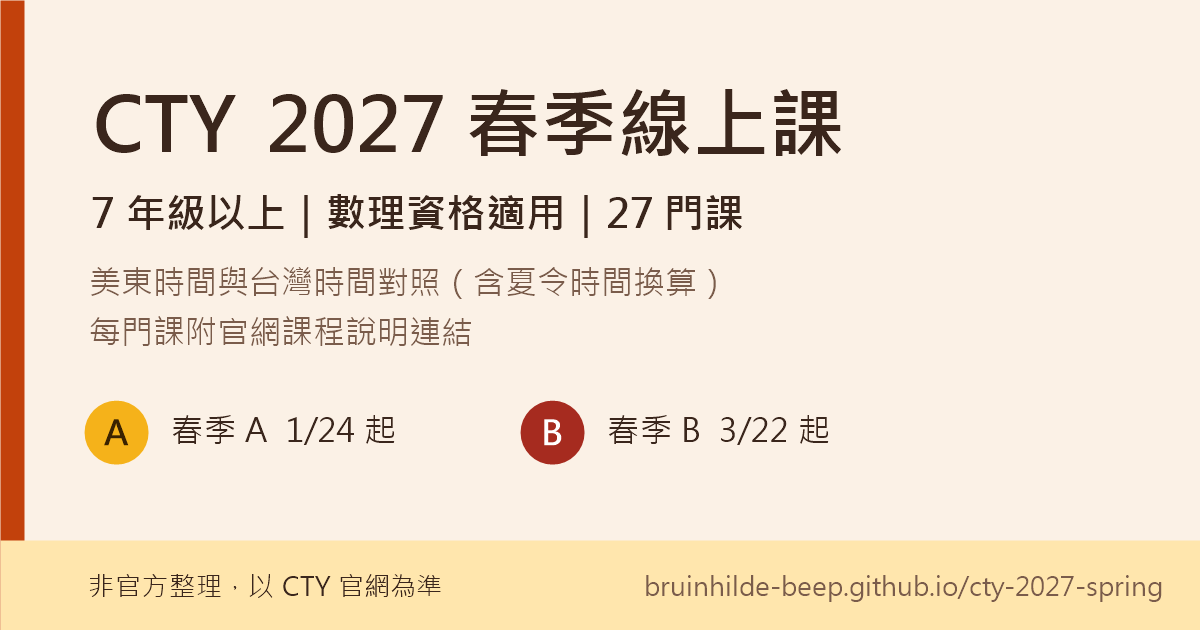
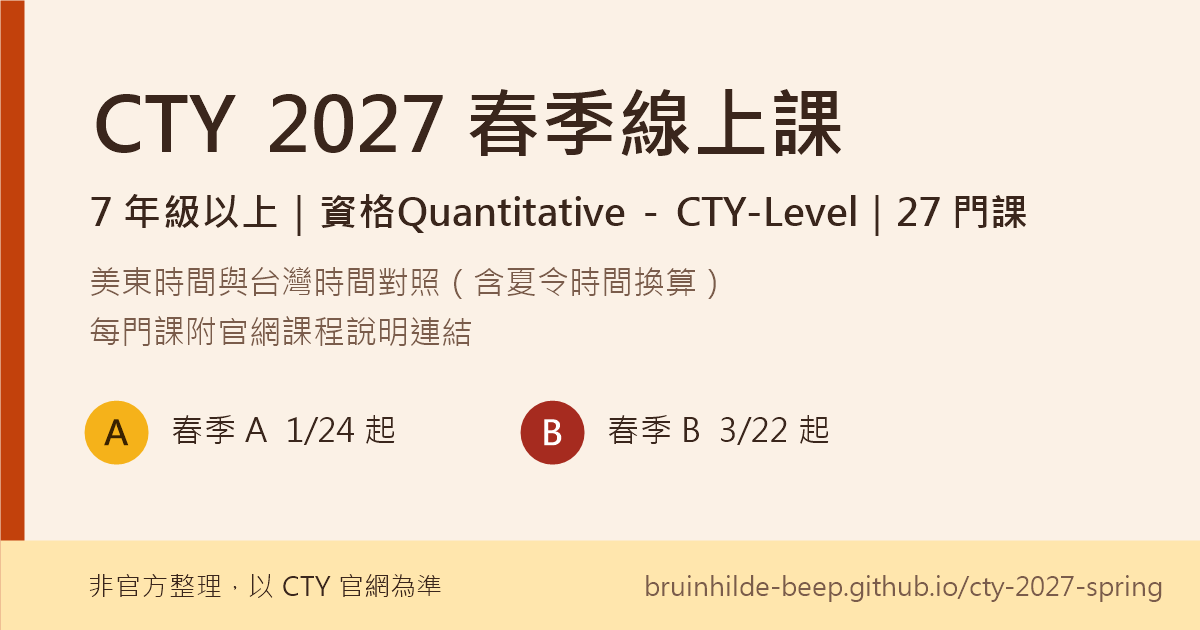
Add files via upload

Changed region(s): [[0.0617, 0.3016, 0.8633, 0.3921]]

diff --git a/index.html b/index.html
@@ -3,10 +3,10 @@
 <head>
 <meta charset="utf-8">
 <meta name="viewport" content="width=device-width, initial-scale=1">
-<meta name="description" content="7 年級以上、數理資格適用的 CTY 2027 春季線上課，附美東與台灣時間對照和官網課程說明連結。非官方整理。">
+<meta name="description" content="7 年級以上、資格Quantitative - CTY-Level 的 CTY 2027 春季線上課，附美東與台灣時間對照和官網課程說明連結。非官方整理。">
 <meta property="og:type" content="website">
 <meta property="og:site_name" content="CTY 2027 春季線上課">
-<meta property="og:title" content="CTY 2027 春季線上課：7 年級以上數理資格適用">
+<meta property="og:title" content="CTY 2027 春季線上課：7 年級以上，資格Quantitative - CTY-Level">
 <meta property="og:description" content="27 門課的美東與台灣上課日期時間對照，含夏令時間換算，每門課附官網說明連結。非官方整理。">
 <meta property="og:url" content="https://bruinhilde-beep.github.io/cty-2027-spring/">
 <meta property="og:locale" content="zh_TW">
@@ -15,9 +15,9 @@
 <meta property="og:image:type" content="image/png">
 <meta property="og:image:width" content="1200">
 <meta property="og:image:height" content="630">
-<meta property="og:image:alt" content="CTY 2027 春季線上課：7 年級以上、數理資格適用，27 門課，美東與台灣時間對照">
+<meta property="og:image:alt" content="CTY 2027 春季線上課：7 年級以上、資格Quantitative - CTY-Level，27 門課，美東與台灣時間對照">
 <meta name="twitter:card" content="summary_large_image">
-<meta name="twitter:title" content="CTY 2027 春季線上課：7 年級以上數理資格適用">
+<meta name="twitter:title" content="CTY 2027 春季線上課：7 年級以上，資格Quantitative - CTY-Level">
 <meta name="twitter:description" content="27 門課的美東與台灣上課日期時間對照，每門課附官網說明連結。非官方整理。">
 <meta name="twitter:image" content="https://bruinhilde-beep.github.io/cty-2027-spring/og-image.png">
 <title>CTY 2027 春季數理課</title>
@@ -100,7 +100,7 @@ h2 { font-size: 18px; margin: 0; }
 <body>
 <div class="wrap">
   <header>
-    <h1>CTY 2027 春季線上課：數理資格適用</h1>
+    <h1>CTY 2027 春季線上課：資格Quantitative - CTY-Level</h1>
     <p class="sub">7 年級以上、只需通過數理（Quantitative）測驗的課程。資料讀取日 2026/11/1，報名前請再看官網。</p>
   </header>
 
